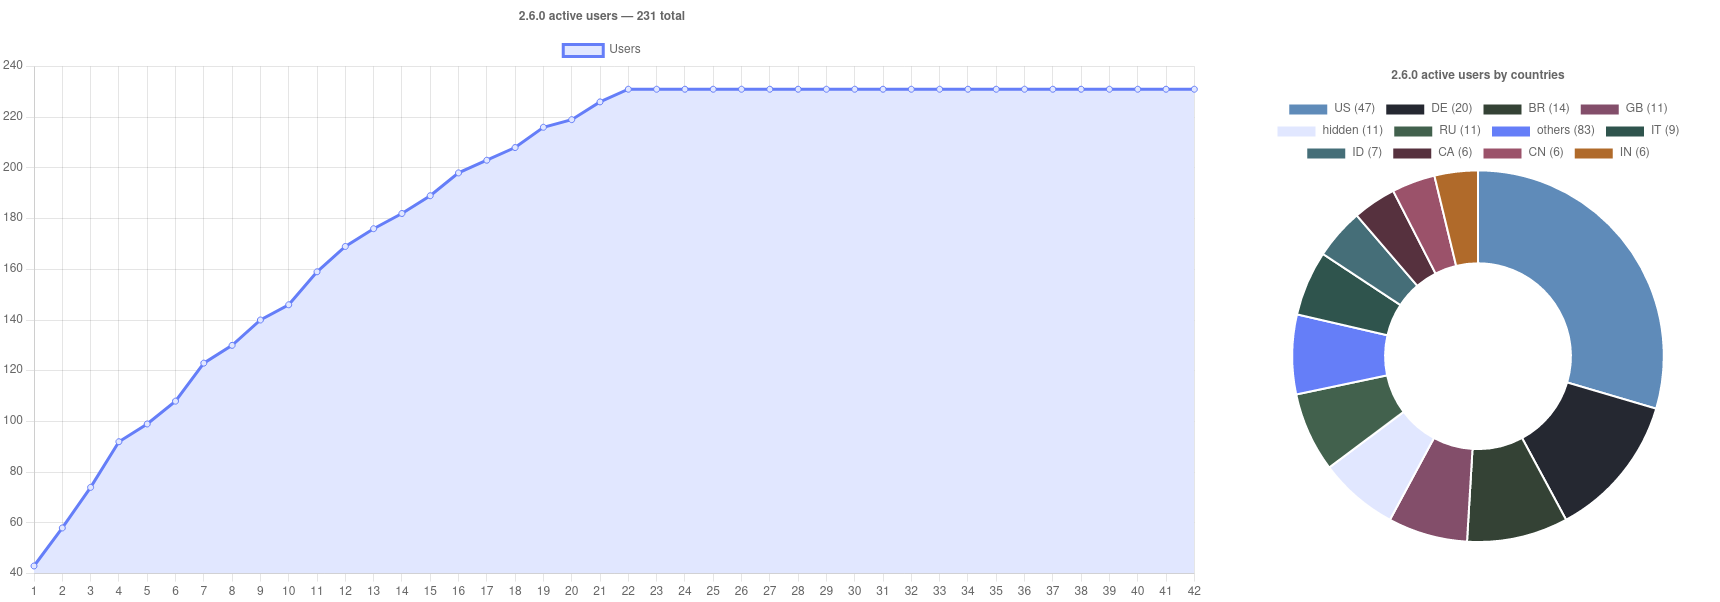
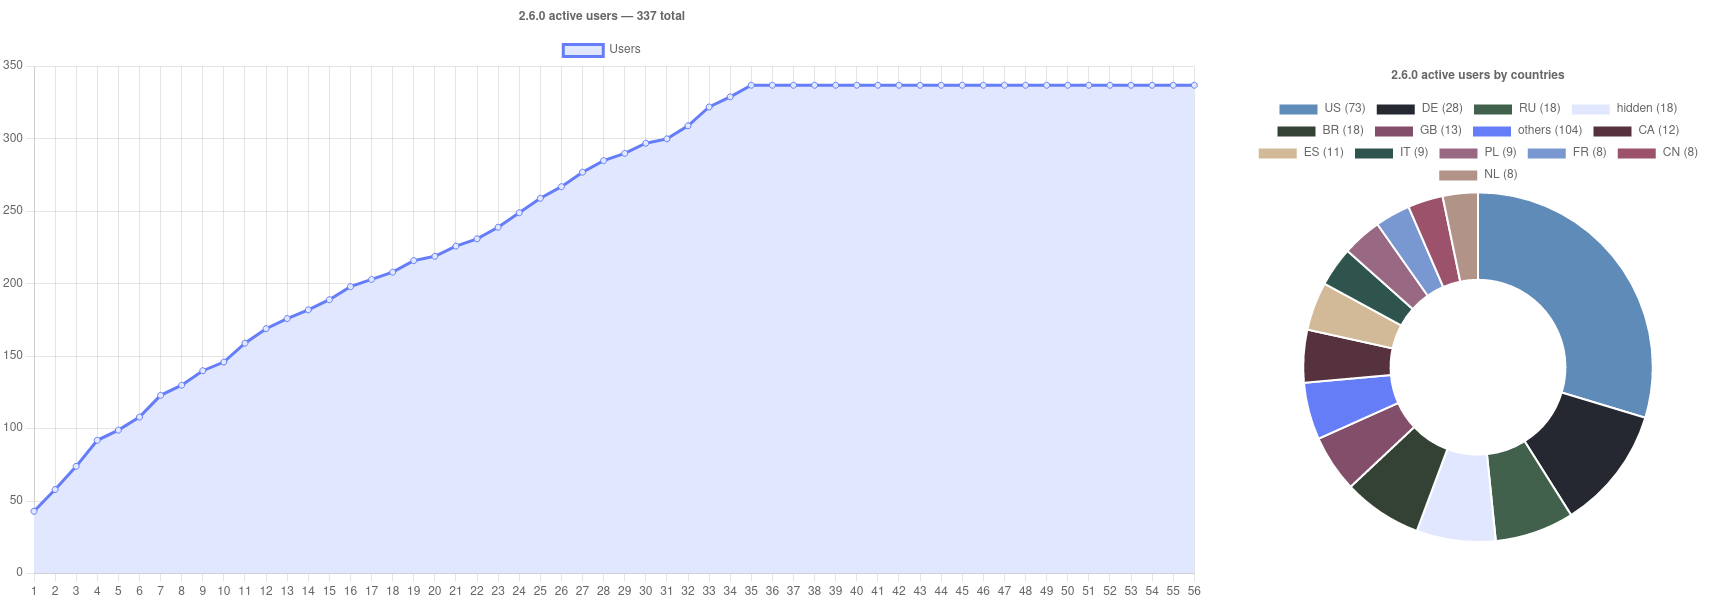
2.3.2 - updated statistics - made `Wine-GE-Proton 7-10` default to install - fixed `yarn build` command (fuck you, neutralino)
From previous commits:
- updated neutralino version (addeds compatibility with appindicator)
- added proper window hiding with fps unlocker enabled
- updated Discord RPC (!68)
  now it can close itself if the launcher is being terminated
- added hiding of the screenshot explorer button
- fixed issue with empty dxvk/runners list

diff --git a/src/ts/launcher/states/InstallWine.ts b/src/ts/launcher/states/InstallWine.ts
@@ -5,9 +5,9 @@ import DXVK from '../../core/DXVK';
 
 export default (launcher: Launcher): Promise<void> => {
     return new Promise(async (resolve) => {
-        Runners.download('lutris-GE-Proton7-9-x86_64').then((stream) => {
+        Runners.download('lutris-GE-Proton7-10-x86_64').then((stream) => {
             launcher.progressBar?.init({
-                label: 'Downloading Wine-GE-Proton 7-9...',
+                label: 'Downloading Wine-GE-Proton 7-10...',
                 showSpeed: true,
                 showEta: true,
                 showPercents: true,
@@ -22,7 +22,7 @@ export default (launcher: Launcher): Promise<void> => {
 
             stream?.unpackStart(() => {
                 launcher.progressBar?.init({
-                    label: 'Unpacking Wine-GE-Proton 7-9...',
+                    label: 'Unpacking Wine-GE-Proton 7-10...',
                     showSpeed: true,
                     showEta: true,
                     showPercents: true,
@@ -36,7 +36,7 @@ export default (launcher: Launcher): Promise<void> => {
 
             stream?.unpackFinish(async () => {
                 // Select this runner
-                await Runners.current('lutris-GE-Proton7-9-x86_64');
+                await Runners.current('lutris-GE-Proton7-10-x86_64');
 
                 // Create prefix if it is not created
                 import('./CreatePrefix').then((module) => {

diff --git a/README.md b/README.md
@@ -75,7 +75,7 @@ field in your `config.yaml` file (settings -> launcher folder). If your system u
 
 | Game version | Launcher version | Patch version |
 | :---: | :---: | :---: |
-| 2.6.0 | 2.3.1 | 2.6.0 stable ✅ |
+| 2.6.0 | 2.3.2 | 2.6.0 stable ✅ |
 
 We have our own [An Anime Game](https://discord.gg/ck37X6UWBp) discord server where you can ask any questions
 
@@ -83,11 +83,11 @@ We have our own [An Anime Game](https://discord.gg/ck37X6UWBp) discord server wh
 
 This is our current usage statistics. You can find older ones [here](repository/pages/STATISTICS.md)
 
-### Our discord server — 549 members
+### Our discord server — 647 members
 
 <img src="repository/pics/stats/2022/apr-may.png">
 
-### 2.6.0 launcher users — 231 total
+### 2.6.0 launcher users — 337 total
 
 <img src="repository/pics/stats/2.6.0.png">
 

diff --git a/repository/pages/STATISTICS.md b/repository/pages/STATISTICS.md
@@ -10,8 +10,9 @@ Our current statistics you can find in [readme](../../README.md)
 
 | Period | Source | Data |
 | - | - | - |
-| 10 Mar — 30 Mar | Discord server | <img src="../pics/stats/2022/mar-apr.png" height="400px"> |
-| 30 Mar — ? | Discord server | <img src="../pics/stats/2022/apr-may.png" height="400px"> |
+| 16 Mar — 30 Mar | Discord server | <img src="../pics/stats/2022/mar-apr.png" height="400px"> |
+| 6 Apr — 20 Apr | Discord server | <img src="../pics/stats/2022/apr-may.png" height="400px"> |
+| 20 Apr — ? | Discord server | <img src="../pics/stats/2022/may-jun.png" height="400px"> |
 
 ## 2.5.0
 
